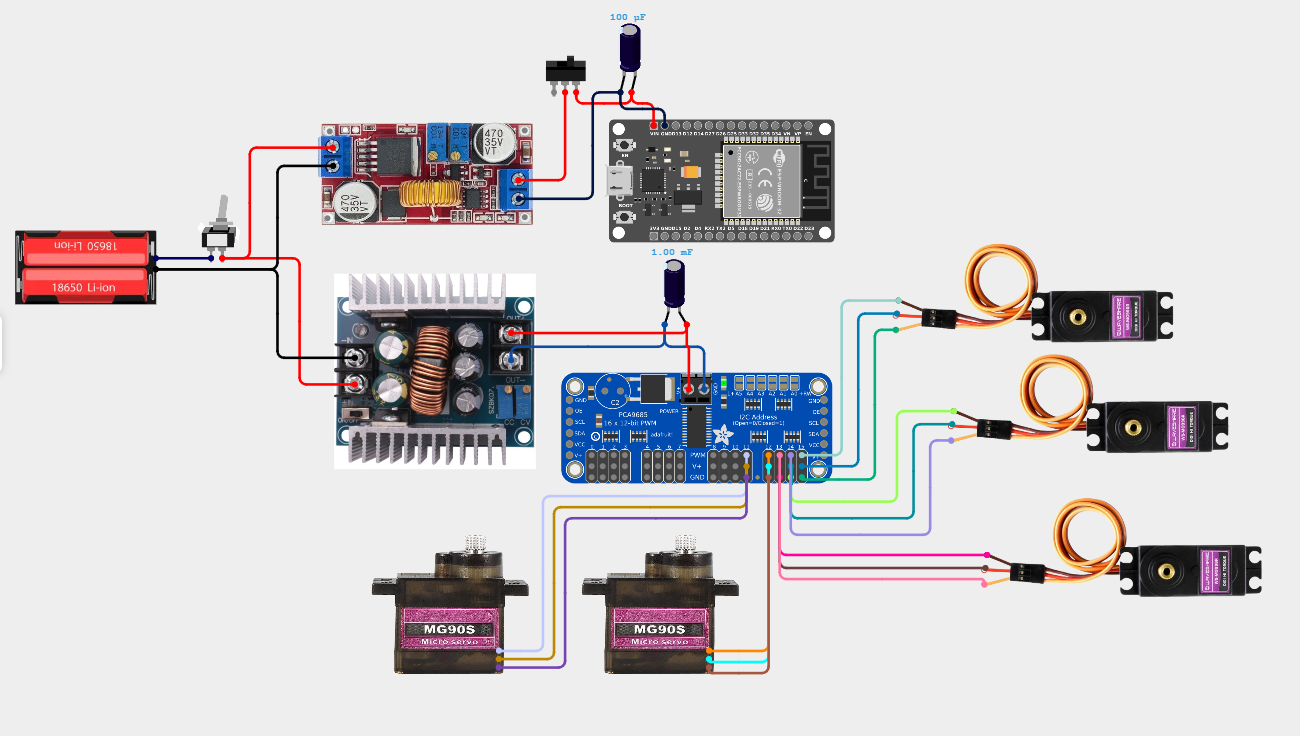
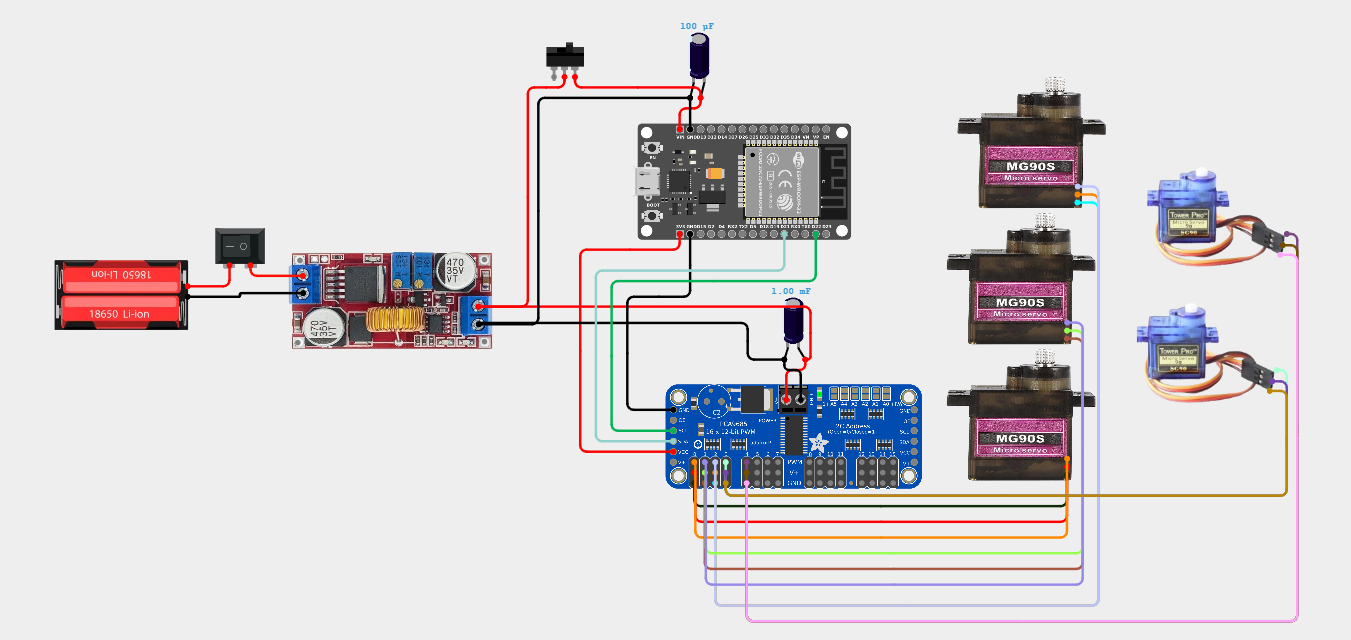
readme updated and circuit diagram added

diff --git a/README.md b/README.md
@@ -11,7 +11,7 @@ computer involved.
 
 The firmware is called ArmPilot. The arm is driven by hobby servos, which report nothing
 back — no encoder, no current sense, no way to ask one where it is. Three problems follow
-from that, and most of the firmware is an answer to one of them:
+from that, and most of the design is an answer to one of them:
 
 - A servo that has just been powered up slams to whatever pulse width reaches it first, so
   firmware that attaches and writes an angle in the same breath makes the arm jump on boot.
@@ -19,6 +19,82 @@ from that, and most of the firmware is an answer to one of them:
   buzzing and see as twitching.
 - Commanding a servo straight to its target makes it accelerate as hard as it can, which on
   a printed arm shows up as wobble on departure and overshoot on arrival.
+
+## Mechanics
+
+<p align="center">
+  <img src="cad/renders/assembly.png" height="300" alt="CAD assembly">
+  <img src="cad/renders/assembly_section.png" height="300" alt="Section view">
+</p>
+
+Everything structural is printed in PETG rather than PLA, to keep flex under load down and to
+survive the heat that builds up around servos in a sealed base. The section view was the
+working drawing for servo clearance, cable routing and wall thickness. The base is a closed
+cylinder carrying the electronics and battery, which puts the heaviest parts at the bottom
+and keeps the arm planted when the elbow is fully extended.
+
+<p align="center">
+  <img src="docs/media/full_assembly_side.jpeg" height="330" alt="Printed arm, extended">
+</p>
+
+Print-ready STLs are in [`cad/print_files/`](cad/print_files/) (base housing and lid, J1–J4
+links, the parallel gripper drivetrain, and a pre-arranged build plate), editable Fusion 360
+sources in [`cad/source/`](cad/source/). Superseded v1 parts are kept in
+[`cad/print_files/v1/`](cad/print_files/v1/).
+
+The browser draws the arm from link lengths the board sends on connect, so changing the
+mechanics means editing one struct: base radius 62 mm, floor to shoulder 105 mm, shoulder to
+elbow 110 mm, elbow to wrist 95 mm, wrist to gripper tip 72 mm.
+
+## Electronics
+
+<p align="center">
+  <img src="electronics/circuit_diagram.png" width="760" alt="Circuit diagram">
+</p>
+
+All five PWM channels come from a PCA9685 at I²C address `0x40` rather than from the ESP32
+itself. Generating pulses in software while the same chip services Wi-Fi interrupts produces
+jitter you can hear; the PCA9685 makes them in dedicated hardware at 50 Hz, and the ESP32
+only writes a pulse width over the bus at 400 kHz.
+
+Power comes from two 18650 cells in series through a rocker switch and a single XL4015 buck
+converter, which feeds the ESP32 and the servo rail in parallel. 100 µF sits on the logic
+side and 1000 µF across the servo rail to absorb the spike a stalled motor throws back. It
+is still one rail, so a hard stall can drag the logic down with it, which is the failure
+described in [When the servos go limp](#when-the-servos-go-limp). Separating the two is the
+next revision: [`circuit_diagram_v2.png`](electronics/circuit_diagram_v2.png) gives the
+servos a dedicated 8 A XL4016E1, and
+[`circuit_diagram_v2_with_bms.png`](electronics/circuit_diagram_v2_with_bms.png) adds a 2S
+BMS and USB-C charging on top of that.
+
+| Qty | Part | Notes |
+|---|---|---|
+| 1 | ESP32-WROOM-32 devkit, 30-pin | Wi-Fi and two cores |
+| 1 | Adafruit PCA9685 | 16-channel 12-bit PWM, I²C `0x40` |
+| 3 | MG90S servo | Base, shoulder, elbow |
+| 2 | SG90 servo | Wrist and gripper |
+| 1 | XL4015 buck converter | Shared 5 V rail |
+| 2 | 18650 Li-ion and holder | In series, about 7.4 V nominal |
+| 1 each | 100 µF / 1000 µF electrolytic | Logic side / servo rail |
+| 2 | Rocker / slide switch | Master and logic cut-off |
+
+Any 50 Hz hobby servo works in place of these; trim each axis with `usMin` and `usMax` in the
+joint table.
+
+`GPIO21` and `GPIO22` carry I²C to the PCA9685 `SDA`/`SCL` and `3V3` feeds its logic. `VIN`
+reaches the ESP32 through the slide switch and the 100 µF, servo `V+` comes off the same
+converter output through the 1000 µF, and grounds are common throughout.
+
+<p align="center">
+  <img src="docs/media/electronics_base.jpeg" width="430" alt="Electronics stack in the base">
+</p>
+
+The whole stack sits on the base plate and closes inside the base cylinder.
+
+<p align="center">
+  <img src="docs/media/electronics_base_front.jpeg" height="230" alt="Front view">
+  <img src="docs/media/electronics_base_top.jpeg" height="230" alt="Top view">
+</p>
 
 ## Motion control
 
@@ -65,9 +141,8 @@ limits live in [`config.cpp`](firmware/src/config.cpp):
 | Gripper | 4 | 0–180° | 60° | 60° | 130 °/s | 260 °/s² | 1800 °/s³ |
 
 Profile generation runs in its own FreeRTOS task pinned to core 1 at priority 3 with a fixed
-period, while networking runs on the other core. Saturating the WebSocket does not change
-how the arm moves. PWM generation itself is offloaded to a PCA9685 over I²C, so the pulse
-train comes from dedicated hardware regardless of what the ESP32 is doing.
+period, while networking runs on the other core. Saturating the WebSocket does not change how
+the arm moves, which is why the dual-core part was worth it.
 
 ## Starting up without the jump
 
@@ -135,75 +210,6 @@ The board answers with a `hello` frame carrying geometry, joint limits, IP and t
 the last reset, a `cal` frame re-broadcast whenever calibration changes, and a 20 Hz state
 packet.
 
-## Mechanics
-
-<p align="center">
-  <img src="cad/renders/assembly.png" height="300" alt="CAD assembly">
-  <img src="cad/renders/assembly_section.png" height="300" alt="Section view">
-</p>
-
-Everything structural is printed in PETG rather than PLA, to keep flex under load down and to
-survive the heat that builds up around servos in a sealed base. The section view was the
-working drawing for servo clearance, cable routing and wall thickness. The base is a closed
-cylinder carrying the electronics and battery, which puts the heaviest parts at the bottom
-and keeps the arm planted when the elbow is fully extended.
-
-<p align="center">
-  <img src="docs/media/full_assembly_side.jpeg" height="330" alt="Printed arm, extended">
-</p>
-
-Print-ready STLs are in [`cad/print_files/`](cad/print_files/) (base housing and lid, J1–J4
-links, the parallel gripper drivetrain, and a pre-arranged build plate), editable Fusion 360
-sources in [`cad/source/`](cad/source/). Superseded v1 parts are kept in
-[`cad/print_files/v1/`](cad/print_files/v1/).
-
-The browser draws the arm from link lengths the board sends on connect, so changing the
-mechanics means editing one struct: base radius 62 mm, floor to shoulder 105 mm, shoulder to
-elbow 110 mm, elbow to wrist 95 mm, wrist to gripper tip 72 mm.
-
-## Electronics
-
-<p align="center">
-  <img src="electronics/circuit_diagram.png" width="760" alt="Circuit diagram">
-</p>
-
-Nothing is driven from the microcontroller directly. Two separate buck converters run off the
-same battery, an XL4015 feeding the ESP32 and an 8 A XL4016E1 feeding the servo rail, so
-servo inrush never reaches the logic supply. 100 µF sits across the ESP32 rail and 1000 µF
-across the servo rail to absorb the spike a stalled motor throws back. A variant with a 2S
-BMS and USB-C charging is in
-[`circuit_diagram_with_bms.png`](electronics/circuit_diagram_with_bms.png).
-
-| Qty | Part | Notes |
-|---|---|---|
-| 1 | ESP32-WROOM-32 devkit, 30-pin | Wi-Fi and two cores |
-| 1 | Adafruit PCA9685 | 16-channel 12-bit PWM, I²C `0x40` |
-| 3 | MG996R servo | Base, shoulder, elbow |
-| 2 | MG90S servo | Wrist and gripper |
-| 1 | XL4015 buck converter | Logic rail |
-| 1 | XL4016E1 8 A buck converter | Servo rail |
-| 2 | 18650 Li-ion and holder | In series, about 7.4 V nominal |
-| 1 each | 100 µF / 1000 µF electrolytic | ESP32 rail / servo rail |
-| 2 | Toggle / slide switch | Master and logic cut-off |
-
-Any 50 Hz hobby servo works in place of these; trim each axis with `usMin` and `usMax` in the
-joint table.
-
-`GPIO21` and `GPIO22` carry I²C to the PCA9685 `SDA`/`SCL`, `3V3` feeds its logic, and `VIN`
-comes from the XL4015 through the switch and the 100 µF. Grounds are common across both
-rails. Servo power reaches the `V+` terminal from the XL4016E1, not from the logic pins.
-
-<p align="center">
-  <img src="docs/media/electronics_base.jpeg" width="430" alt="Electronics stack in the base">
-</p>
-
-The whole stack sits on the base plate and closes inside the base cylinder.
-
-<p align="center">
-  <img src="docs/media/electronics_base_front.jpeg" height="230" alt="Front view">
-  <img src="docs/media/electronics_base_top.jpeg" height="230" alt="Top view">
-</p>
-
 ## Build and flash
 
 You need [PlatformIO](https://platformio.org/). Dependencies resolve from `platformio.ini`.
@@ -226,18 +232,18 @@ password `armpilot1`, at `http://192.168.4.1`. On your own network `http://armpi
 works over mDNS. The servos come up free by design; press engage in the UI to energise them.
 
 Tuning is split between two files. `firmware/include/config.h` holds the AP fallback, I²C
-pins, control rate and boot behaviour. `firmware/src/config.cpp` holds the joint table,
-link geometry and calibration defaults. Both are pushed to the browser on connect, so there
-is nothing to keep in sync on the UI side.
+pins, control rate and boot behaviour. `firmware/src/config.cpp` holds the joint table, link
+geometry and calibration defaults. Both are pushed to the browser on connect, so there is
+nothing to keep in sync on the UI side.
 
 ## When the servos go limp
 
 Almost always the ESP32 has reset: outputs shut off, torque disappears, the arm sags. The
 cause is captured on boot and shown on serial and in the UI as `BROWNOUT`, `PANIC` or
-`WATCHDOG`. Brownout is the usual answer, and the fix is a separate 5–6 V supply for the
-servos with grounds tied together and 1000 µF across the rail. `ENGAGE_STAGGER_MS` already
-spreads out the start-up current, but peak current during a move is a question of how much
-the supply can deliver.
+`WATCHDOG`. Brownout is the usual answer on a shared rail: give the servos their own 5–6 V
+supply, tie the grounds together, and keep 1000 µF across the rail. `ENGAGE_STAGGER_MS`
+already spreads out the start-up current, but peak current during a move is a question of
+how much the supply can deliver.
 
 ## Repository layout
 
